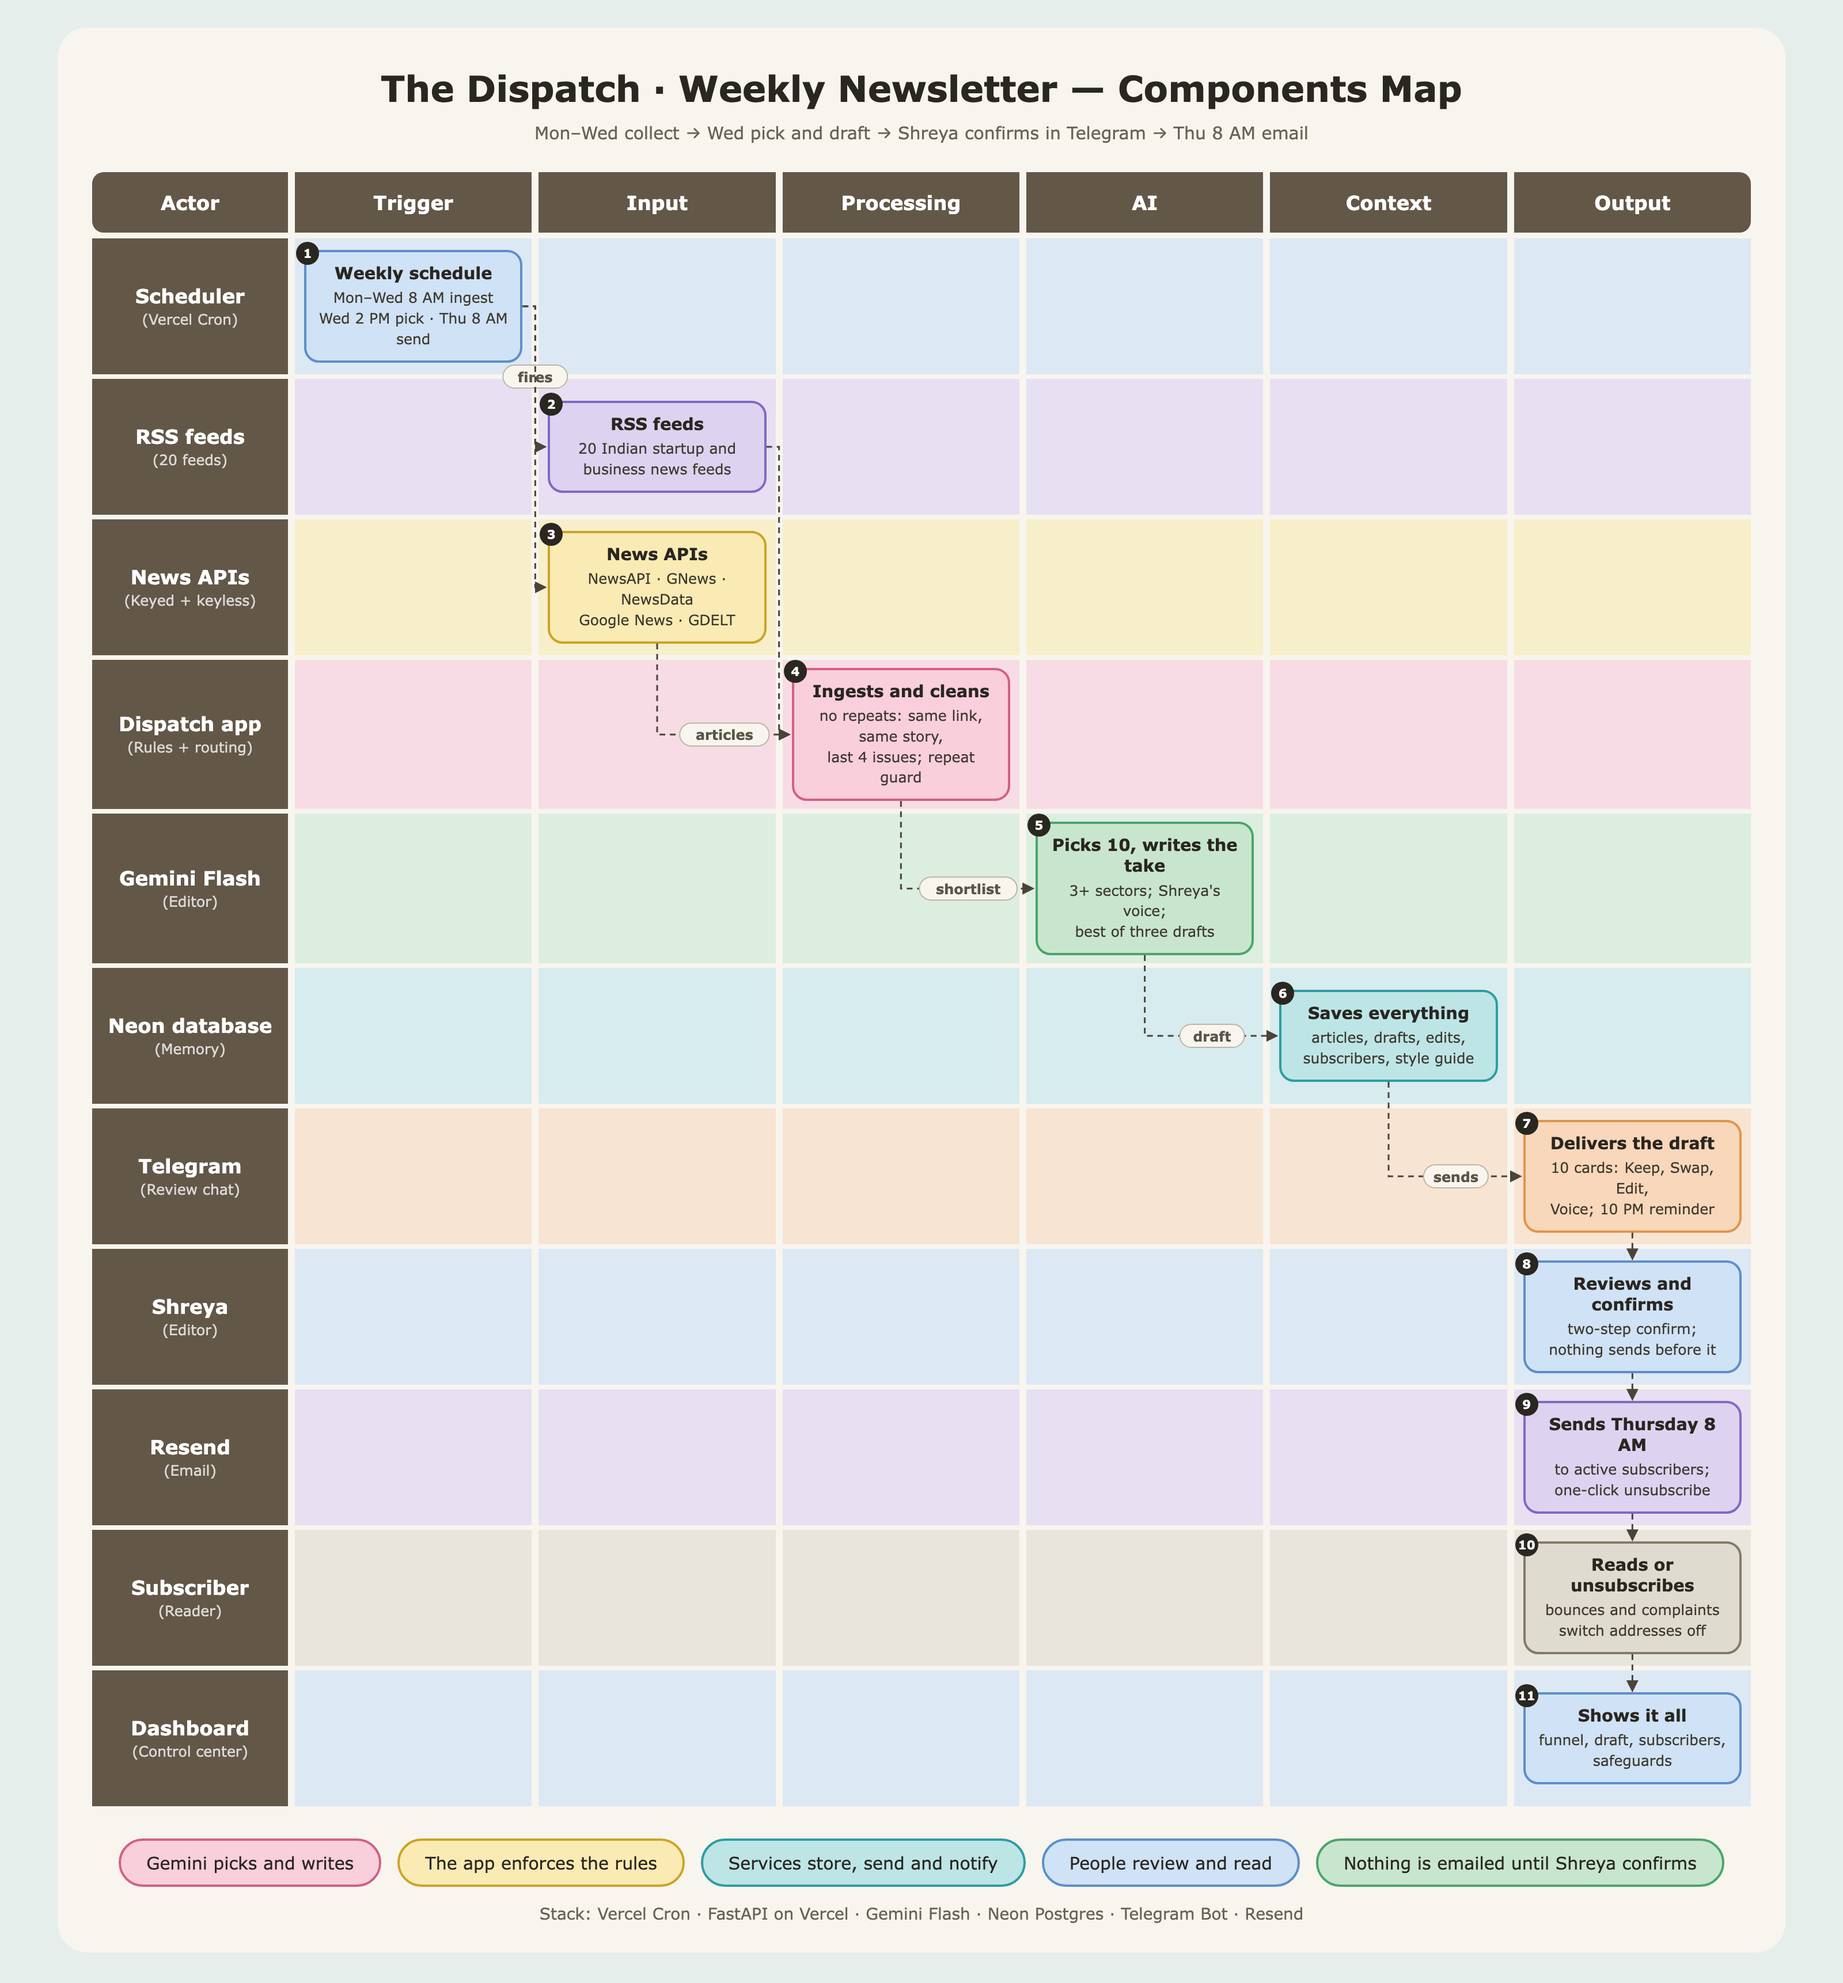
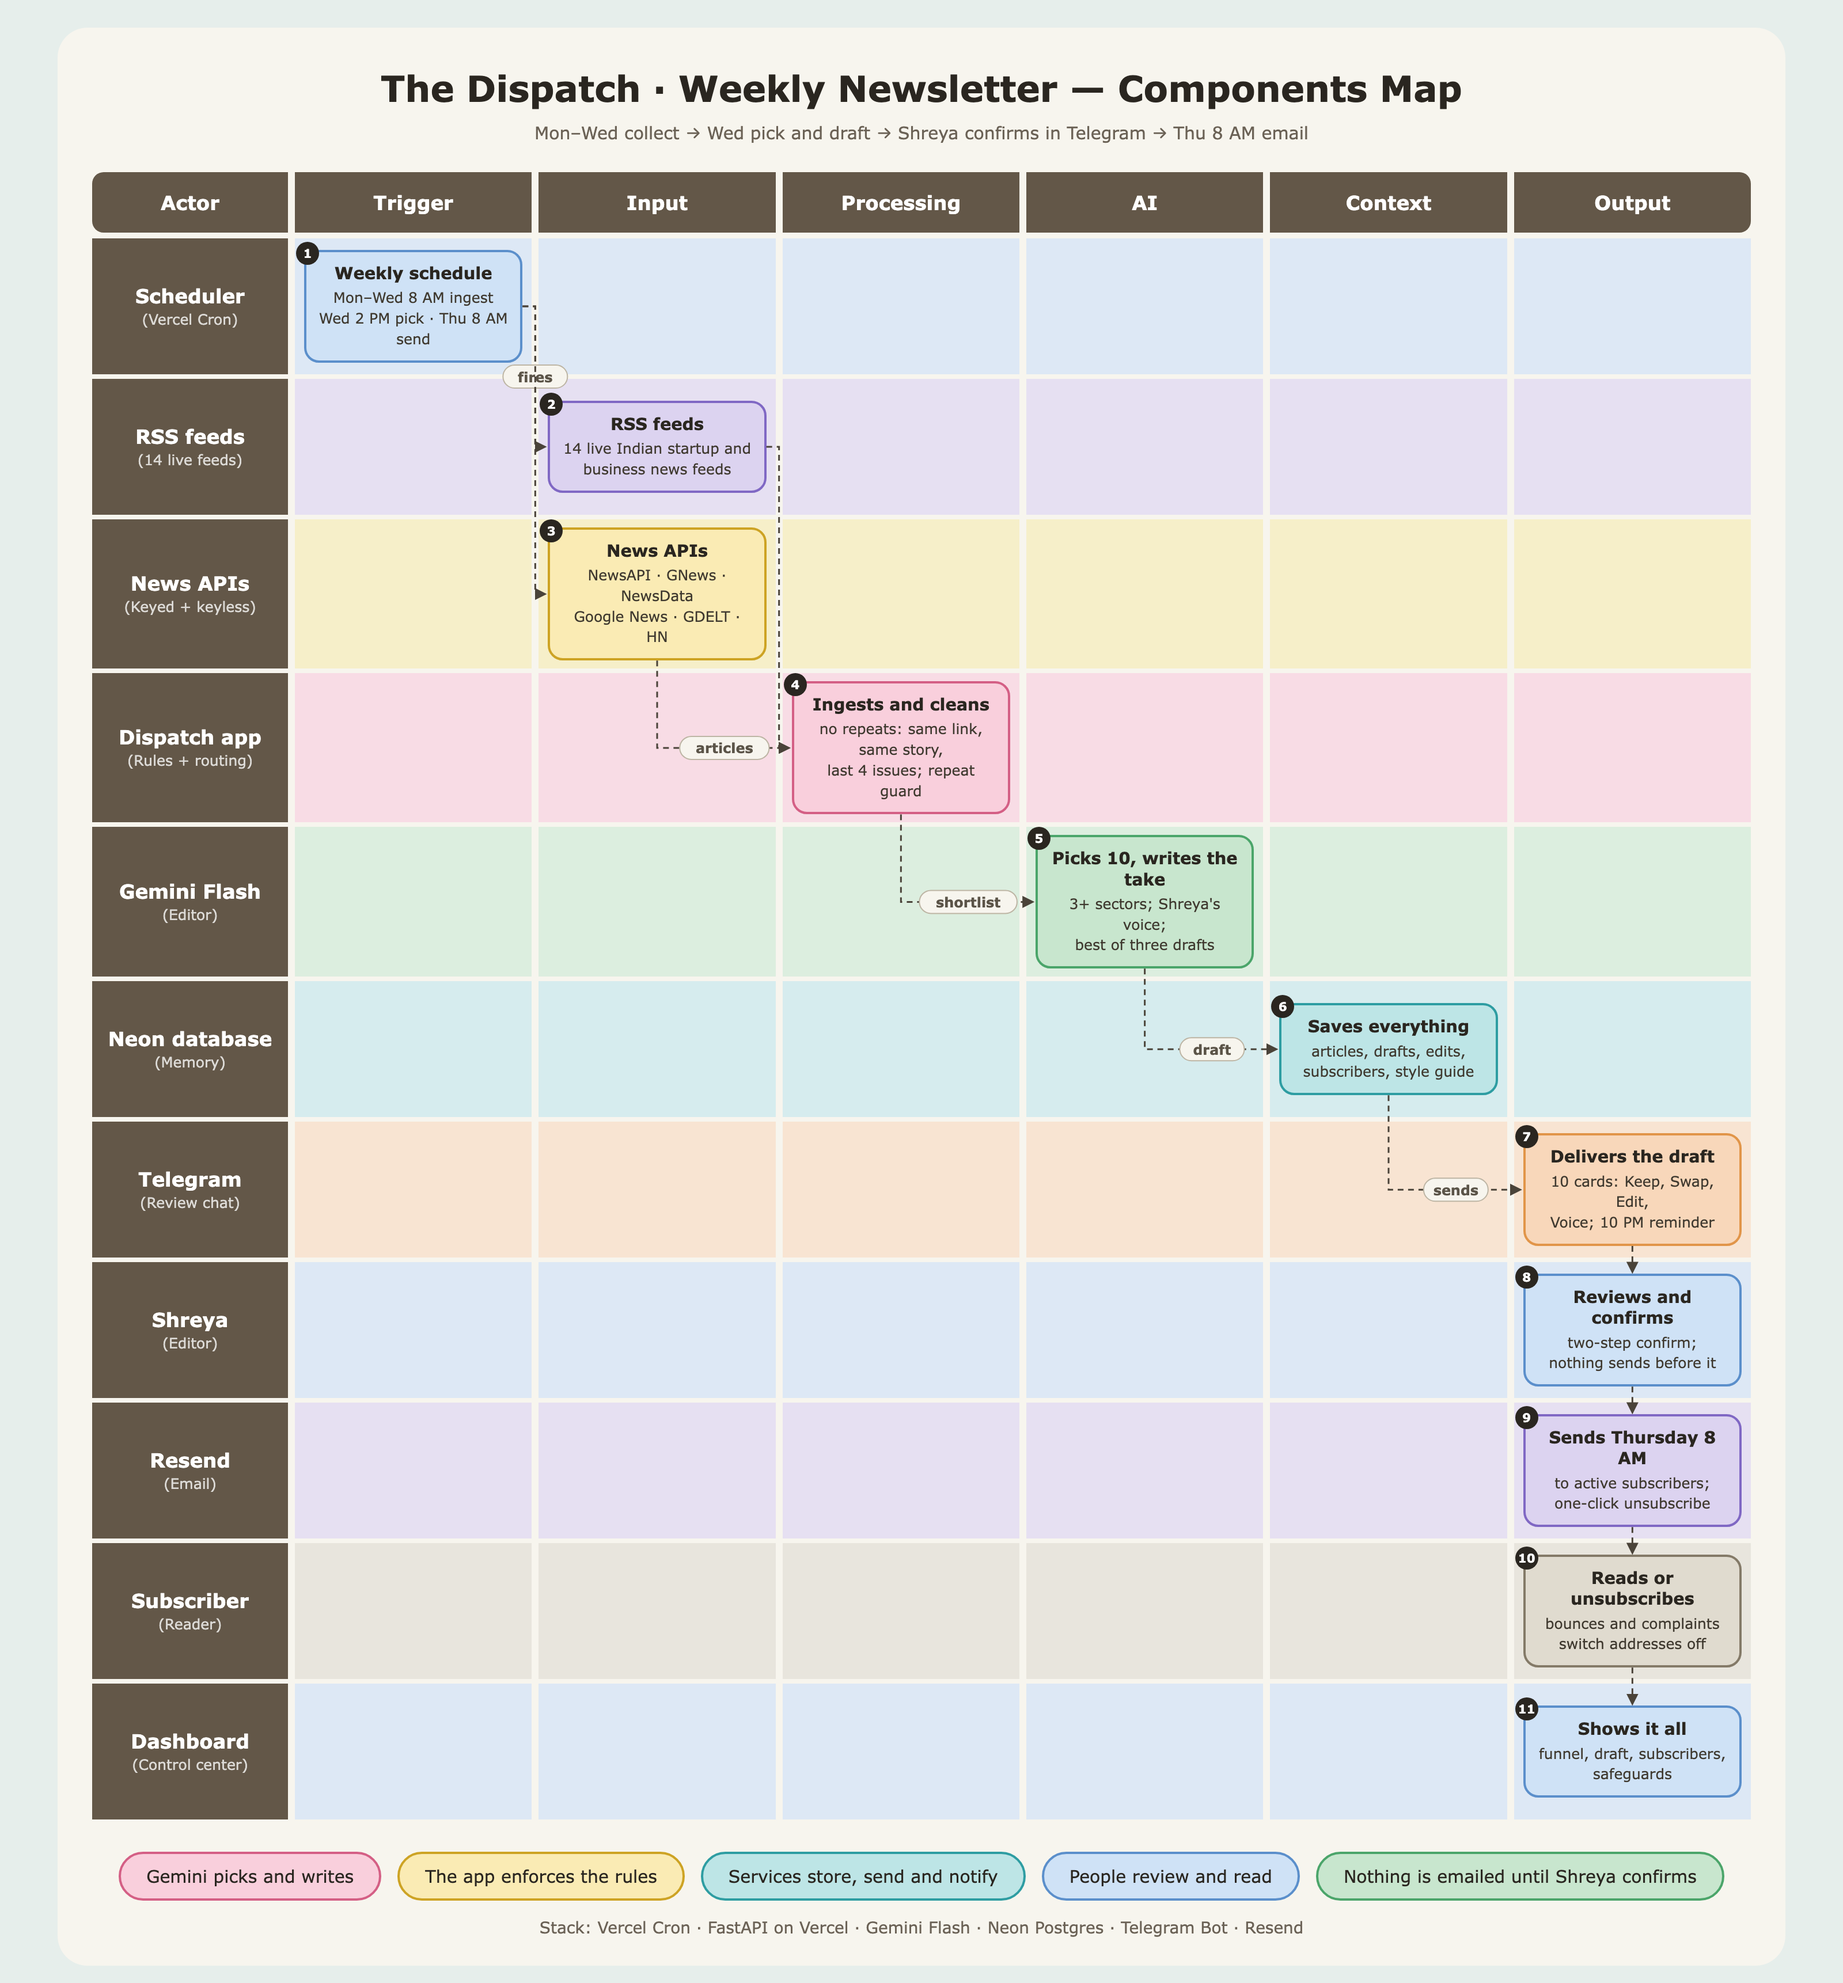
Correct feed count: 14 live RSS feeds (20 registered, 6 switched off); map and dashboard wording

Changed region(s): [[0.0625, 0.2485, 0.9688, 0.9942]]

diff --git a/components-map.html b/components-map.html
@@ -66,13 +66,13 @@
 <script>
 const COLS = ["Trigger", "Input", "Processing", "AI", "Context", "Output"];
 // lane: name, sub-label
-const LANES = [["Scheduler", "Vercel Cron"], ["RSS feeds", "20 feeds"], ["News APIs", "Keyed + keyless"], ["Dispatch app", "Rules + routing"], ["Gemini Flash", "Editor"], ["Neon database", "Memory"],
+const LANES = [["Scheduler", "Vercel Cron"], ["RSS feeds", "14 live feeds"], ["News APIs", "Keyed + keyless"], ["Dispatch app", "Rules + routing"], ["Gemini Flash", "Editor"], ["Neon database", "Memory"],
                ["Telegram", "Review chat"], ["Shreya", "Editor"], ["Resend", "Email"], ["Subscriber", "Reader"], ["Dashboard", "Control center"]];
 // id, lane, column, title, lines
 const STEPS = [
   [1, 0, 0, "Weekly schedule", "Mon&ndash;Wed 8 AM ingest<br>Wed 2 PM pick &middot; Thu 8 AM send"],
-  [2, 1, 1, "RSS feeds", "20 Indian startup and<br>business news feeds"],
-  [3, 2, 1, "News APIs", "NewsAPI &middot; GNews &middot; NewsData<br>Google News &middot; GDELT"],
+  [2, 1, 1, "RSS feeds", "14 live Indian startup and<br>business news feeds"],
+  [3, 2, 1, "News APIs", "NewsAPI &middot; GNews &middot; NewsData<br>Google News &middot; GDELT &middot; HN"],
   [4, 3, 2, "Ingests and cleans", "no repeats: same link, same story,<br>last 4 issues; repeat guard"],
   [5, 4, 3, "Picks 10, writes the take", "3+ sectors; Shreya's voice;<br>best of three drafts"],
   [6, 5, 4, "Saves everything", "articles, drafts, edits,<br>subscribers, style guide"],

diff --git a/app/dashboard_html.py b/app/dashboard_html.py
@@ -282,7 +282,7 @@ function command(){
   const ap=S.approval.map(a=>`<div class="ap c-${colors[a.key]} ${a.state}"><div class="k">${icon[a.key]} ${esc(a.label)}</div><div class="t">${a.ts?esc(short(a.ts)):(a.state==='skipped'?'skipped':'pending')}</div><div class="nt">${esc(a.note)}</div></div>`).join('');
   const picked=sel().filter(i=>i.signal!=null),rest=S.articles.filter(a=>a.signal!=null&&a.status==='new');
   const avg=picked.length?Math.round(picked.reduce((a,b)=>a+b.signal,0)/picked.length):null,avr=rest.length?Math.round(rest.reduce((a,b)=>a+b.signal,0)/rest.length):'—';
-  const st=S.issue?S.issue.status:'collecting',HD={collecting:['Collecting this week’s stories','The pipeline reads 20 news feeds and several news APIs every Monday to Wednesday. On Wednesday afternoon Gemini picks the ten best and drafts your take on each.'],
+  const st=S.issue?S.issue.status:'collecting',HD={collecting:['Collecting this week’s stories','The pipeline reads the RSS feeds and news APIs every Monday to Wednesday. On Wednesday afternoon Gemini picks the ten best and drafts your take on each.'],
    drafted:['Your draft is ready. Review it in Telegram.','Ten stories, each with a take in your voice. Keep, swap or edit any of them, then confirm. Nothing goes to subscribers until you do.'],
    approved:['You’ve confirmed this issue.','It goes to your subscribers on Thursday at 8:00 AM IST. You can still reopen it in Telegram until then.'],
    sending:['Sending now.','The issue is going out to your subscribers.'],sent:['This issue has gone out.','Delivered to your active subscribers. Next week’s collection starts Monday.']}[S.issue?S.issue.status:'collecting']||['This week’s issue',''];

diff --git a/README.md b/README.md
@@ -16,7 +16,7 @@ An automated pipeline for **The Dispatch**, Shreya's weekly newsletter on the In
 ## The weekly flow
 
 ```
-Mon-Wed 8:00 AM IST   ingest 20 RSS feeds + NewsAPI + GNews + NewsData + Google News + GDELT, de-duplicate, store in Neon
+Mon-Wed 8:00 AM IST   ingest 14 live RSS feeds + 13 Google News searches + NewsAPI, GNews and NewsData queries (+ GDELT, Hacker News), de-duplicate, store in Neon
 Wed     2:00 PM IST   Gemini pre-screens every headline, picks 10 stories across 3+ sectors, drafts each take in Shreya's voice
 Wed     afternoon     the draft lands in Telegram: Keep / Swap / Edit / Voice / Angles on every story card
 Wed    10:00 PM IST   still unconfirmed? a loud, pinned reminder with "Confirm" and "Push deadline" buttons
@@ -39,7 +39,7 @@ Nothing is ever emailed without her explicit, two-step confirmation (see *Safegu
 | No confirmation by Wednesday 10 PM → send a reminder | cron `30 16 * * 3` (22:00 IST) → `telegram.send_reminder` |
 | Unsubscribes and bounces handled gracefully | One-click unsubscribe (page + `List-Unsubscribe` header), hard bounces and spam complaints switch addresses off via a signed Resend webhook, temporary bounces don't; unknown or preview links end on a friendly page, never an error |
 | All AI tasks use Gemini Flash, not Claude | [`app/gemini.py`](app/gemini.py): `gemini-3.8-flash` only; no other AI provider anywhere in the code |
-| Live external data; works with data at submission | Live feeds and APIs; the Neon database holds a real week of articles and a drafted issue |
+| Live external data; works with data at submission | 41 live source jobs per run (14 active RSS feeds, Google News searches and news APIs); the Neon database holds a real week of articles and a drafted issue |
 | Deployed on Vercel | FastAPI on Vercel ([`index.py`](index.py)), Vercel Cron for the schedule |
 
 ## What the dashboard shows
@@ -77,6 +77,7 @@ Useful scripts: `scripts/import_subscribers.py` (import Shreya's real list as ac
 
 ## Honest limits
 
+- **RSS feeds.** 20 feeds are registered; 14 are active. Six (Moneycontrol, Business Standard, VCCircle, Tracxn, Analytics India Magazine and a duplicate Entrackr address) block automated readers or are dead, so they are switched off. All 14 active feeds returned articles in the last live run.
 - **Sample data.** The subscriber list in the demo is generated (2,200 active test addresses, tagged `sample`); Shreya's real list is imported with one command. Sample addresses are capped at 25 per send so a demo never burns the email quota.
 - **Sending domain.** Mail is sent from Resend's shared test address, which can only deliver to the Resend account owner. Reaching real subscribers needs a domain verified in Resend. Until then, new sign-ups are added instantly instead of by confirmation email.
 - **Vercel Hobby cron** runs each job at some point in the hour after its scheduled time, so "10 PM" is 10 to 11 PM and "Wednesday 2 PM" is 2 to 3 PM IST. Never early.
